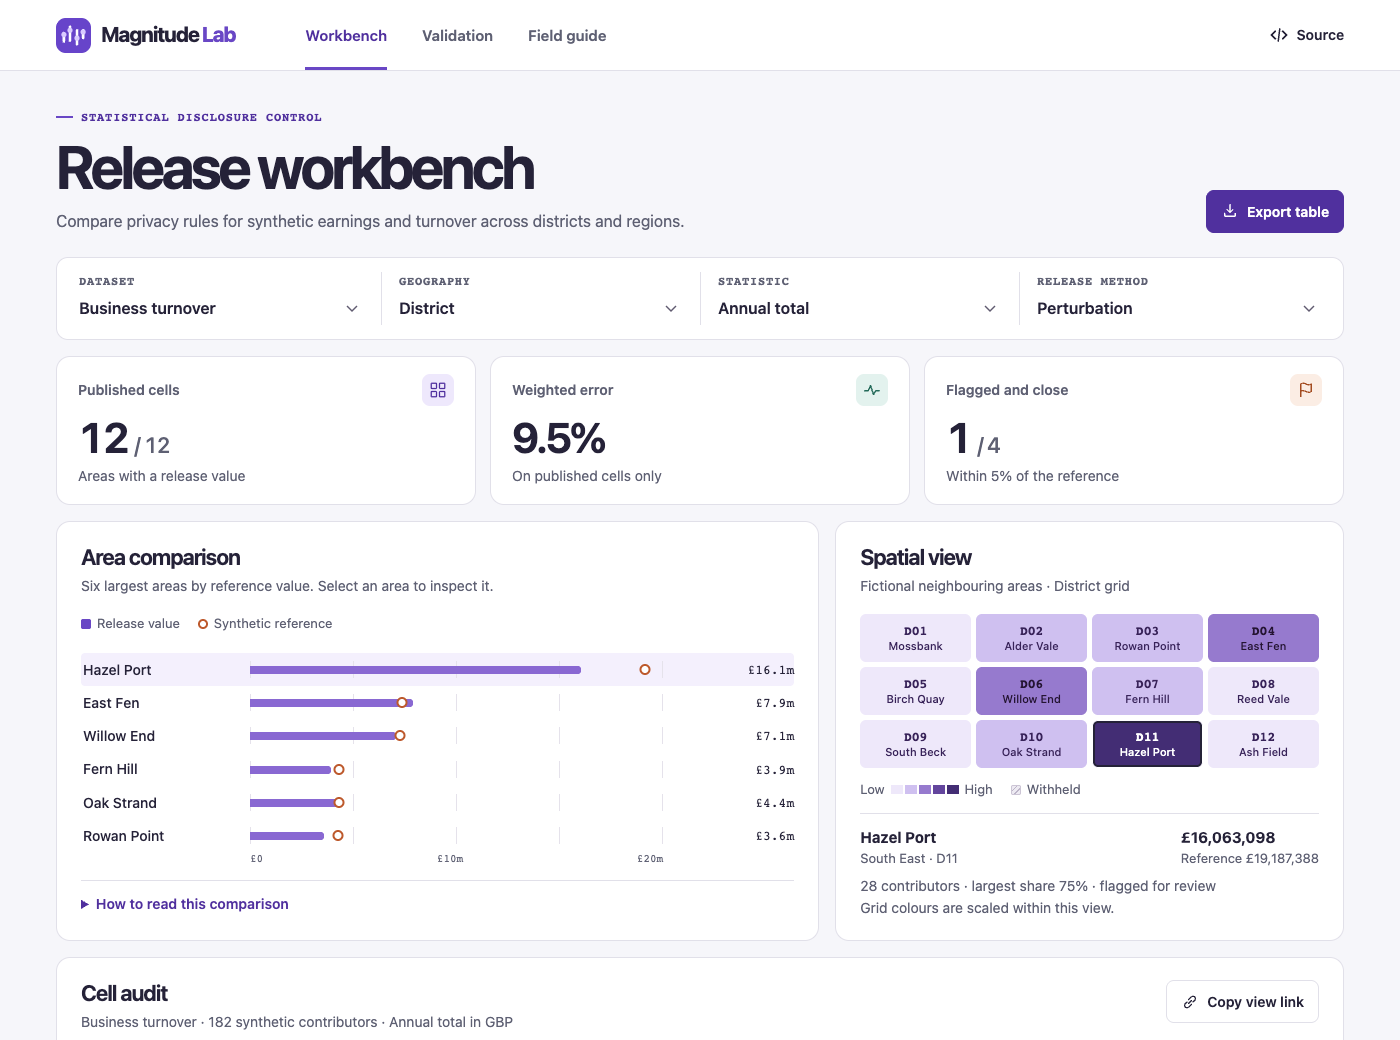
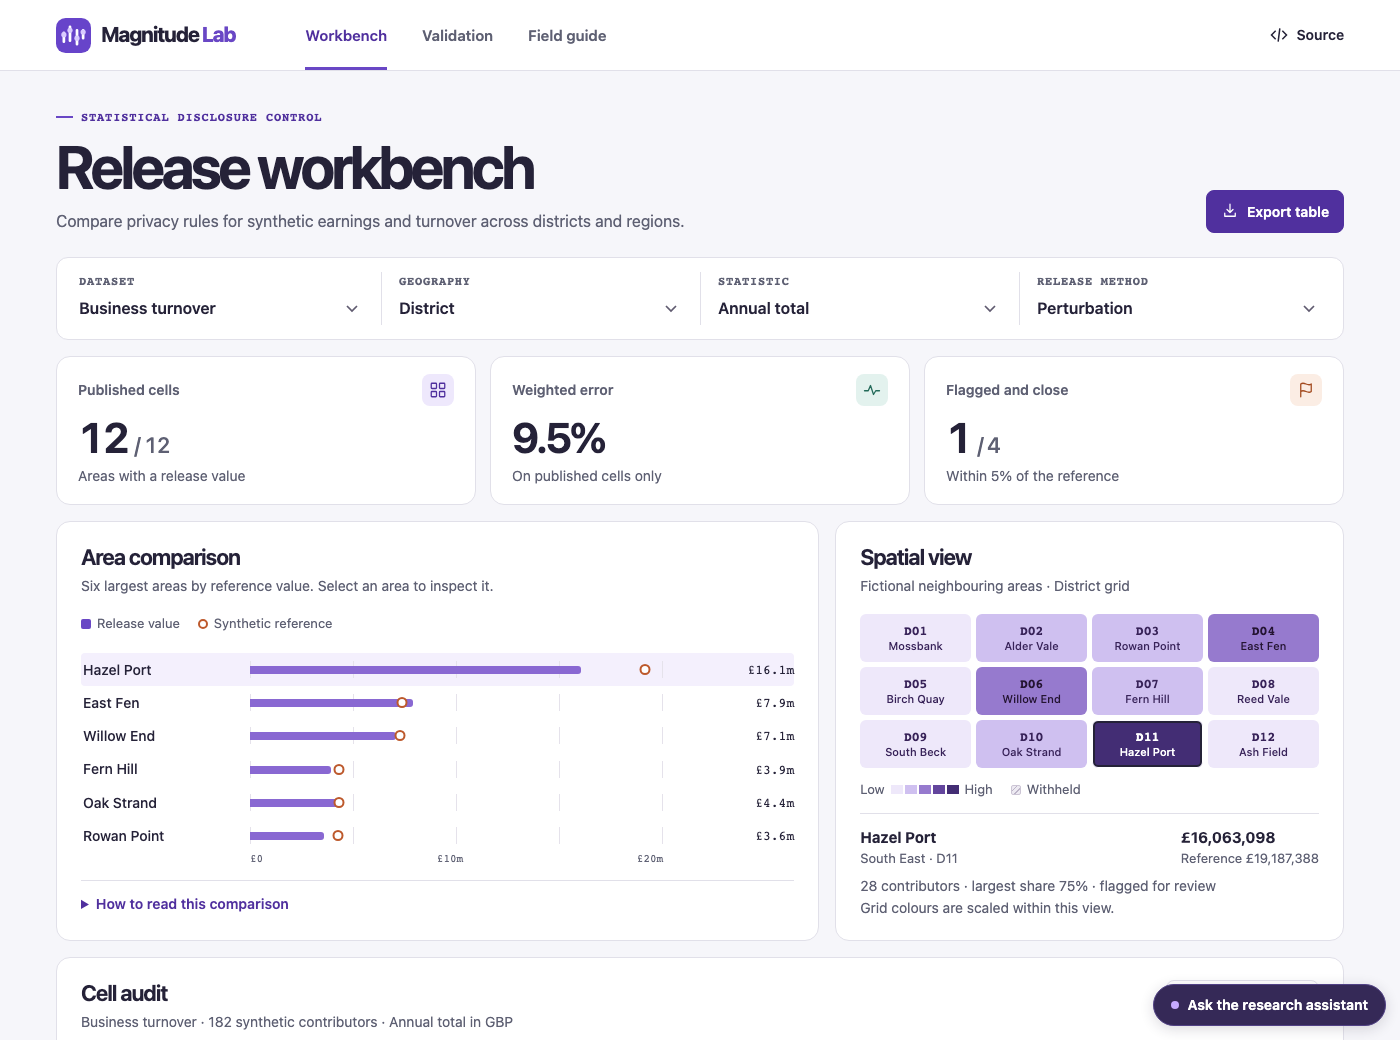
Verify live bilingual follow-ups and retain evidence when a model answer fails

Changed region(s): [[0.7986, 0.9231, 1.0, 1.0]]

diff --git a/web/assets/assistant.js b/web/assets/assistant.js
@@ -54,6 +54,29 @@ function links(sources) {
   return group;
 }
 
+function evidenceContent(card) {
+  const list = element('ul', 'assistant-facts');
+  for (const fact of card.facts) list.append(element('li', '', fact));
+  return [element('h3', '', card.title), element('p', '', card.summary), list, links(card.sources)];
+}
+
+async function serviceError(response) {
+  const body = await response.json().catch(() => null);
+  if (body?.code === 'ungrounded_answer') return 'The live answer could not be verified against this view’s evidence.';
+  if (body?.code === 'model_unavailable') return 'The OpenAI service is temporarily unavailable.';
+  const messages = {
+    400: 'Check your question and current view, then try again.',
+    403: 'This site is not authorised to use the live assistant.',
+    413: 'Shorten your question and try again.',
+    422: 'The available evidence did not support an answer. Try a more specific question about this view.',
+    429: 'The public demo has reached its usage limit. Please try again later.',
+    502: 'The live answer is unavailable.',
+    503: 'The live assistant is temporarily unavailable.',
+    504: 'The assistant timed out. Please try again.'
+  };
+  return messages[response.status] || 'The assistant is unavailable. Please try again.';
+}
+
 function chatUrl(raw) {
   if (typeof raw !== 'string' || !raw.trim()) return null;
   try {
@@ -168,6 +191,13 @@ async function mount() {
   const suggestions = element('div', 'assistant-suggestions');
   suggestions.setAttribute('role', 'group');
   const preview = element('div', 'assistant-evidence');
+  const recorded = element('section', 'assistant-evidence');
+  recorded.setAttribute('aria-label', 'Recorded workbench evidence');
+  recorded.hidden = true;
+  function clearRecorded() {
+    recorded.hidden = true;
+    recorded.replaceChildren();
+  }
   panel.append(launcher, windowEl);
   windowEl.append(header, contextLabel, body, indication);
 
@@ -187,9 +217,7 @@ async function mount() {
     contextLabel.textContent = 'Current view · ' + viewText;
     if (live) return;
     const card = evidenceFor(intent, { lab, ...context });
-    const list = element('ul', 'assistant-facts');
-    for (const fact of card.facts) list.append(element('li', '', fact));
-    preview.replaceChildren(element('h3', '', card.title), element('p', '', card.summary), list, links(card.sources));
+    preview.replaceChildren(...evidenceContent(card));
     for (const choice of suggestions.querySelectorAll('button')) choice.setAttribute('aria-pressed', String(choice.dataset.intent === intent));
   }
 
@@ -213,13 +241,14 @@ async function mount() {
       });
       suggestions.append(choice);
     }
-    body.append(suggestions, transcript);
+    body.append(suggestions, transcript, recorded);
     windowEl.append(form, note);
     question.addEventListener('input', syncControls);
     clear.addEventListener('click', () => {
       session.length = 0;
       save(session);
       transcript.replaceChildren();
+      clearRecorded();
       question.value = '';
       indication.textContent = 'Conversation cleared.';
       syncControls();
@@ -270,6 +299,7 @@ async function mount() {
     if (!live || busy || !message || message.length > questionLimit) return;
     const { context, viewText } = current();
     busy = true;
+    clearRecorded();
     indication.textContent = 'Researching your question…';
     syncControls();
     pending = new AbortController();
@@ -280,15 +310,7 @@ async function mount() {
         headers: { 'Content-Type': 'application/json' }, signal: pending.signal,
         body: JSON.stringify({ question: message, history: pastMessages(session), context })
       });
-      if (!response.ok) {
-        const messages = { 400: 'Check your question and current view, then try again.',
-          403: 'This site is not authorised to use the live assistant.', 413: 'Shorten your question and try again.',
-          422: 'The available evidence did not support an answer. Try a more specific question about this view.',
-          429: 'The public demo has reached its usage limit. Please try again later.',
-          502: 'The assistant could not produce an answer from the evidence. Please try again.',
-          503: 'The live assistant is temporarily unavailable.', 504: 'The assistant timed out. Please try again.' };
-        throw new Error(messages[response.status] || 'The assistant is unavailable. Please try again.');
-      }
+      if (!response.ok) throw new Error(await serviceError(response));
       const result = await response.json().catch(() => null);
       if (typeof result?.answer !== 'string' || !result.answer.trim() || !Array.isArray(result.citations)) {
         throw new Error('The service returned an incomplete answer. Please try again.');
@@ -306,6 +328,11 @@ async function mount() {
       if (error.name === 'AbortError') indication.textContent = 'The assistant timed out. Your question is ready to retry.';
       else if (error instanceof TypeError) indication.textContent = 'Could not reach the live assistant. Your question is ready to retry.';
       else indication.textContent = error.message;
+      const card = evidenceFor('cell', { lab, ...context });
+      recorded.replaceChildren(element('strong', '', 'Recorded workbench evidence'),
+        element('p', 'assistant-stamp', viewText), ...evidenceContent(card));
+      recorded.hidden = false;
+      body.scrollTop += recorded.getBoundingClientRect().top - body.getBoundingClientRect().top;
     } finally {
       clearTimeout(timeout);
       pending = null;

diff --git a/docs/assistant.md b/docs/assistant.md
@@ -30,3 +30,16 @@ npx --no-install wrangler deploy --dry-run --config worker/wrangler.toml
 ```
 
 The tests cover the entire evidence matrix, missing denominators, changed selections, output validation, provider refusals, quota persistence and concurrent requests. Browser tests cover citation links, two turns, session clearing and the clearly labelled local evidence view. Routine automation substitutes the model transport, so pull requests can exercise these behaviours without incurring model charges. [Evidence tests](../tests/evidence.mjs) · [Worker tests](../tests/worker.test.mjs) · [browser tests](../tests/assistant-browser.cjs)
+
+An optional production smoke test opens the public workbench in a fresh desktop browser, asks a question about the selected region and follows up in Chinese. It compares the numbers with the underlying synthetic cell and verifies that both answers appear with source links. It requires explicit opt-in and uses two real model requests.
+
+```sh
+node tests/live-assistant.cjs --live
+```
+
+
+## Observed release check · 20 November 2026
+
+The public page sent an English question for the South East, combined-policy turnover view to the live Worker. Its answer identified the largest contributor’s 70.63% share and the 50% threshold. The follow-up asked in Chinese whether the count alone would trigger withholding. The assistant answered in Chinese that 37 businesses exceeded the minimum count of eight. Both calls returned HTTP 200, visible source links and the selected experiment. The test compared the cited numbers with the committed research data. During pre-release checks another live request returned HTTP 502. The interface handles provider and grounding failures separately and offers the underlying evidence without creating a successful conversation turn.
+
+[Two-turn screenshot from the deployed site](assistant-workbench.png) · [Opt-in live test](../tests/live-assistant.cjs)

diff --git a/README.md b/README.md
@@ -16,7 +16,7 @@
 
 Open the assistant from the bottom corner of the workbench. Start with the combined regional turnover case and select South East. Ask “Why is this region withheld?” Then ask “Does the contributor count also breach the threshold?” Follow up in English or Chinese. The chat carries recent turns and the current selection, and links to its evidence.
 
-The optional OpenAI backend uses the Responses API. It builds its own evidence from the same versioned experiment as the browser and limits public requests through a persistent daily allowance. No visitor key or account is needed. If the backend is unconfigured, the page explicitly shows six browsable evidence topics instead. [Assistant architecture, activation and limits](docs/assistant.md)
+The hosted assistant uses the OpenAI Responses API. It builds its own evidence from the same versioned experiment as the browser and limits public requests through a persistent daily allowance. No visitor key or account is needed. If the backend is unconfigured, the page explicitly shows six browsable evidence topics instead. [Assistant architecture, activation and limits](docs/assistant.md) · [Recorded two-turn browser check](docs/assistant-workbench.png)
 
 ## Research and delivery evidence
 
